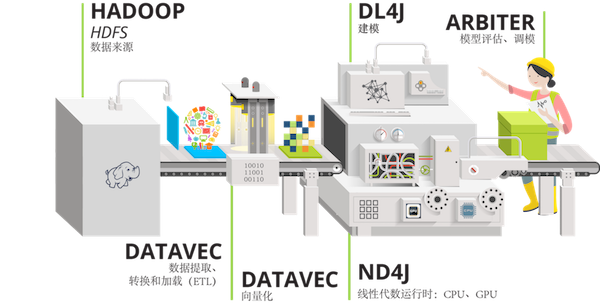
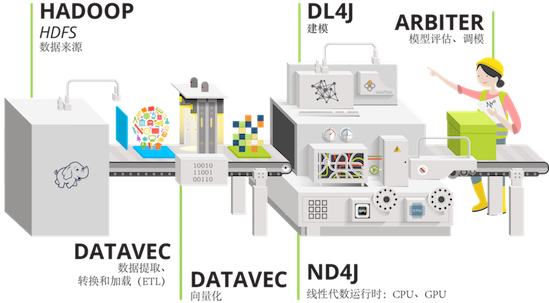
index cn draft testing the lightbox image
Former-commit-id: 9f905e3d0c3e1c1b66f18311d1d6eedd0cae004f [formerly 1ce82252786353629a4437dd6971fa4f3bd59a07]
Former-commit-id: 5079b98dd5616afb310b8a687aee09920bb4cdbb

diff --git a/cn/index-draft.html b/cn/index-draft.html
@@ -22,10 +22,8 @@ redirect_from: /zh-index
 <p>
 <h2>Deeplearning4j系列工具</h2>
 </p>
-<p><a href="../img/dl4j-ecosystem-cn.png" data-lity><img src="../img/dl4j-ecosystem-cn-small.png" width="600" height="303" alt=""/></a></p>
-<br />
+<p align="center"><a href="../img/dl4j-ecosystem-cn.jpg" data-lity><img src="../img/dl4j-ecosystem-cn-small.png" width="600" height="303" alt=""/></a></p>
 <hr color="#DBDBDB" />
-<br />
 <div class="tabs tabs-text">
 
   <!-- Nav tabs -->
